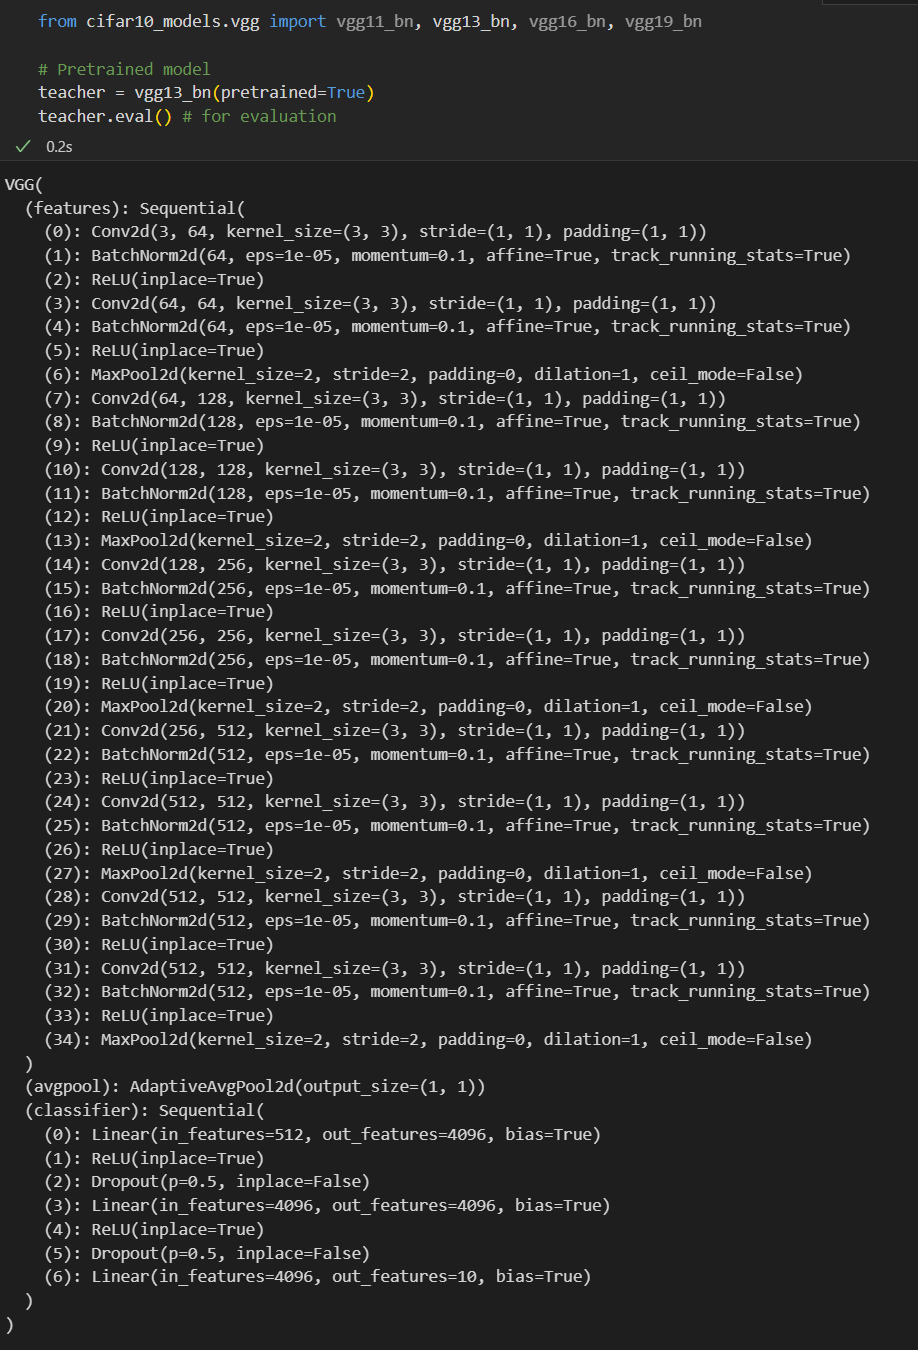
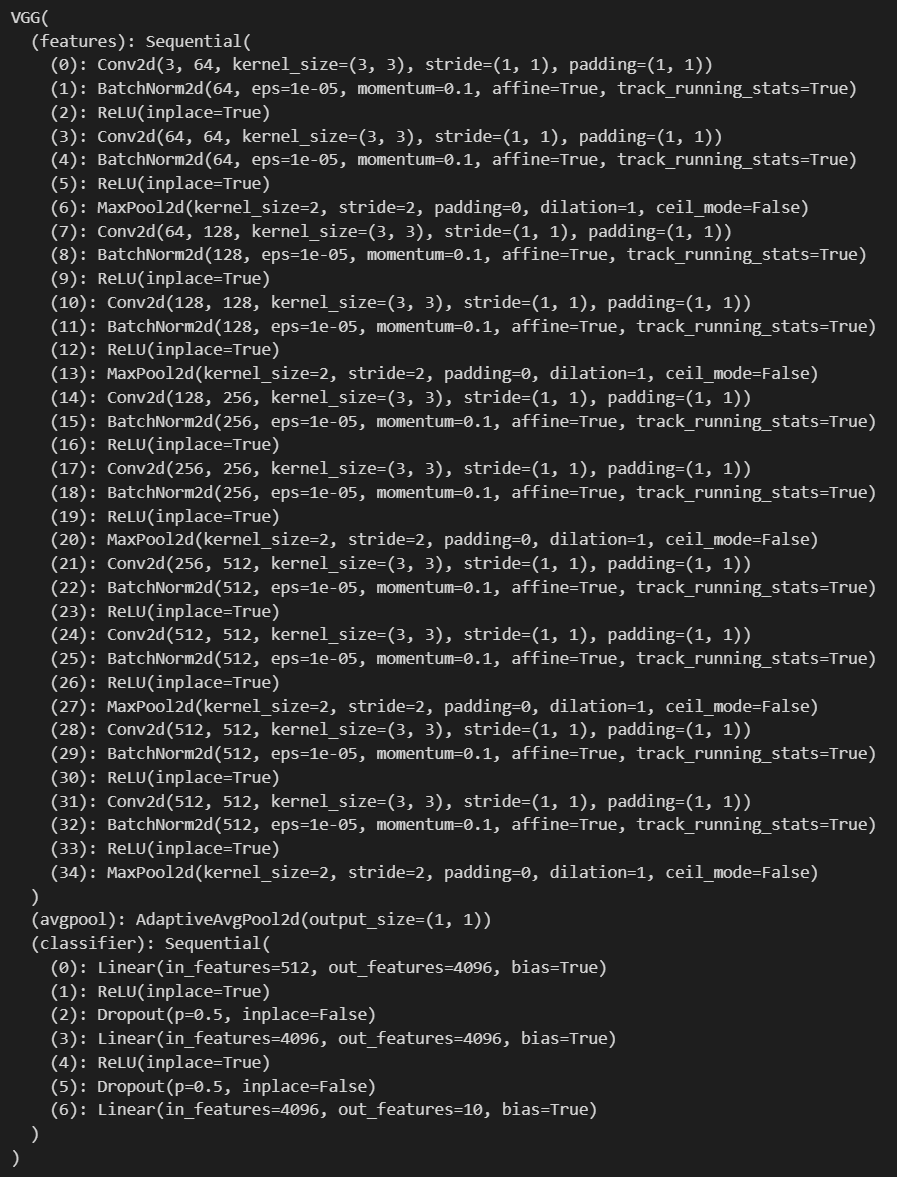
try image again teacher arch

diff --git a/index.html b/index.html
@@ -70,57 +70,9 @@
 
 <p>
   In our initial test we used vgg13_bn (94.22% val accuracy) as the teacher model, which has the following architecture:
-
-  VGG(
-  (features): Sequential(
-    (0): Conv2d(3, 64, kernel_size=(3, 3), stride=(1, 1), padding=(1, 1))
-    (1): BatchNorm2d(64, eps=1e-05, momentum=0.1, affine=True, track_running_stats=True)
-    (2): ReLU(inplace=True)
-    (3): Conv2d(64, 64, kernel_size=(3, 3), stride=(1, 1), padding=(1, 1))
-    (4): BatchNorm2d(64, eps=1e-05, momentum=0.1, affine=True, track_running_stats=True)
-    (5): ReLU(inplace=True)
-    (6): MaxPool2d(kernel_size=2, stride=2, padding=0, dilation=1, ceil_mode=False)
-    (7): Conv2d(64, 128, kernel_size=(3, 3), stride=(1, 1), padding=(1, 1))
-    (8): BatchNorm2d(128, eps=1e-05, momentum=0.1, affine=True, track_running_stats=True)
-    (9): ReLU(inplace=True)
-    (10): Conv2d(128, 128, kernel_size=(3, 3), stride=(1, 1), padding=(1, 1))
-    (11): BatchNorm2d(128, eps=1e-05, momentum=0.1, affine=True, track_running_stats=True)
-    (12): ReLU(inplace=True)
-    (13): MaxPool2d(kernel_size=2, stride=2, padding=0, dilation=1, ceil_mode=False)
-    (14): Conv2d(128, 256, kernel_size=(3, 3), stride=(1, 1), padding=(1, 1))
-    (15): BatchNorm2d(256, eps=1e-05, momentum=0.1, affine=True, track_running_stats=True)
-    (16): ReLU(inplace=True)
-    (17): Conv2d(256, 256, kernel_size=(3, 3), stride=(1, 1), padding=(1, 1))
-    (18): BatchNorm2d(256, eps=1e-05, momentum=0.1, affine=True, track_running_stats=True)
-    (19): ReLU(inplace=True)
-    (20): MaxPool2d(kernel_size=2, stride=2, padding=0, dilation=1, ceil_mode=False)
-    (21): Conv2d(256, 512, kernel_size=(3, 3), stride=(1, 1), padding=(1, 1))
-    (22): BatchNorm2d(512, eps=1e-05, momentum=0.1, affine=True, track_running_stats=True)
-    (23): ReLU(inplace=True)
-    (24): Conv2d(512, 512, kernel_size=(3, 3), stride=(1, 1), padding=(1, 1))
-    (25): BatchNorm2d(512, eps=1e-05, momentum=0.1, affine=True, track_running_stats=True)
-    (26): ReLU(inplace=True)
-    (27): MaxPool2d(kernel_size=2, stride=2, padding=0, dilation=1, ceil_mode=False)
-    (28): Conv2d(512, 512, kernel_size=(3, 3), stride=(1, 1), padding=(1, 1))
-    (29): BatchNorm2d(512, eps=1e-05, momentum=0.1, affine=True, track_running_stats=True)
-    (30): ReLU(inplace=True)
-    (31): Conv2d(512, 512, kernel_size=(3, 3), stride=(1, 1), padding=(1, 1))
-    (32): BatchNorm2d(512, eps=1e-05, momentum=0.1, affine=True, track_running_stats=True)
-    (33): ReLU(inplace=True)
-    (34): MaxPool2d(kernel_size=2, stride=2, padding=0, dilation=1, ceil_mode=False)
-  )
-  (avgpool): AdaptiveAvgPool2d(output_size=(1, 1))
-  (classifier): Sequential(
-    (0): Linear(in_features=512, out_features=4096, bias=True)
-    (1): ReLU(inplace=True)
-    (2): Dropout(p=0.5, inplace=False)
-    (3): Linear(in_features=4096, out_features=4096, bias=True)
-    (4): ReLU(inplace=True)
-    (5): Dropout(p=0.5, inplace=False)
-    (6): Linear(in_features=4096, out_features=10, bias=True)
-  )
-)
 </p>
+
+<img alt="vgg13_bn architecture" class="img-fluid" src="images/teacher.png">
 
 <p>
   We set up a very simple student model as a proof of concept. It used the following architecture:
